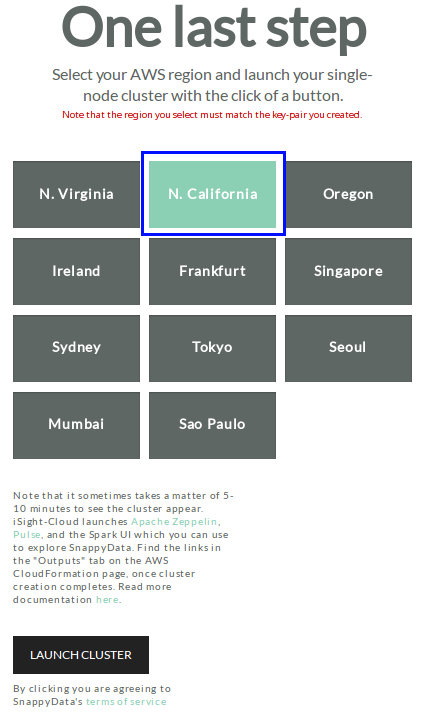
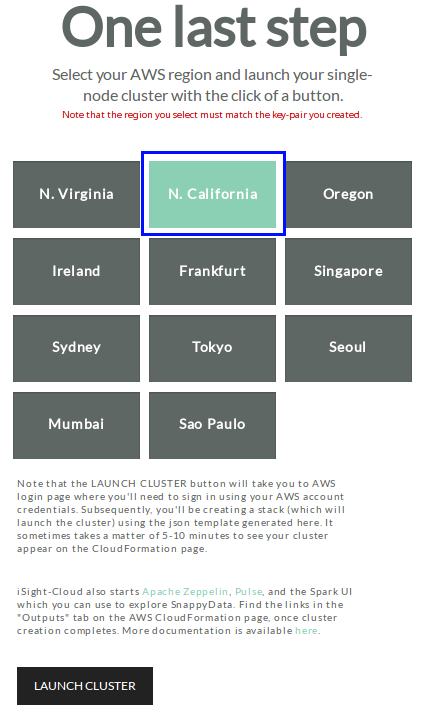
Updated image and document

Changed region(s): [[0.0309, 0.6489, 0.8337, 1.0]]

diff --git a/docs/aqp_aws.md b/docs/aqp_aws.md
@@ -49,7 +49,7 @@ Before you begin, ensure that:
 
 SnappyData uses the AWS CloudFormation feature to automatically install, configure and start a SnappyData Cloud cluster. In this release, the configuration supports launching the cluster on a single EC2 instance.
 
-It is recommended that you select an instance type with higher processing power and more memory for this cluster, as it would be running five processes (locator, lead, two data servers and an Apache Zeppelin server) on it.
+It is recommended that you select an instance type with higher processing power and more memory for this cluster, as it would be running four processes (locator, lead, a data server and an Apache Zeppelin server) on it.
 
 This method is recommended as the fastest way to deploy SnappyData. All you need is an existing AWS account and login credentials to get started! 
 
@@ -65,10 +65,10 @@ The names and details of the members are automatically derived from the provided
 Refer to the Amazon documentation for more information on  [generating your own key pair](http://docs.aws.amazon.com/AWSEC2/latest/UserGuide/ec2-key-pairs.html). <br>	
  ![STEP](./Images/aws_ec2keypair.png)
 
- 3. Select an instance and storage based on the capacity that you require. <br>
+ 3. Select an instance based on the capacity that you require. <br>
  ![STEP](./Images/aws_instancetype.png)
  
-4. Enter the size of the EBS storage volume to be used with Amazon EC2 instance in the **EBS Volume Size(gigabytes)** field.  
+4. Enter the size of the EBS storage volume to be attached to the Amazon EC2 instance in the **EBS Volume Size(gigabytes)** field.  
 ![STEP](./Images/aws_ebsvolumesize.png)
  
 	> Note: Currently only Amazon Elastic Block Storage (EBS) is supported.
@@ -84,9 +84,7 @@ Refer to the Amazon documentation for more information on  [generating your own 
 	
 	> * Use the key pair that exists in the region selected.
 	
-	> * If are not already logged into AWS, you are redirected to the AWS log in page. Enter your login credentials to continue.
-	
-	> * It may take a few minutes for the cluster to be created. 
+	> * If you are not already logged into AWS, you are redirected to the AWS log in page. Enter your login credentials to continue.
 	
 8. On the **Select Template page**, the URL for the Amazon S3 template is pre-populated. Click **Next** to continue.   <br>
 ![STEP](./Images/aws_selecttemplate.png)
